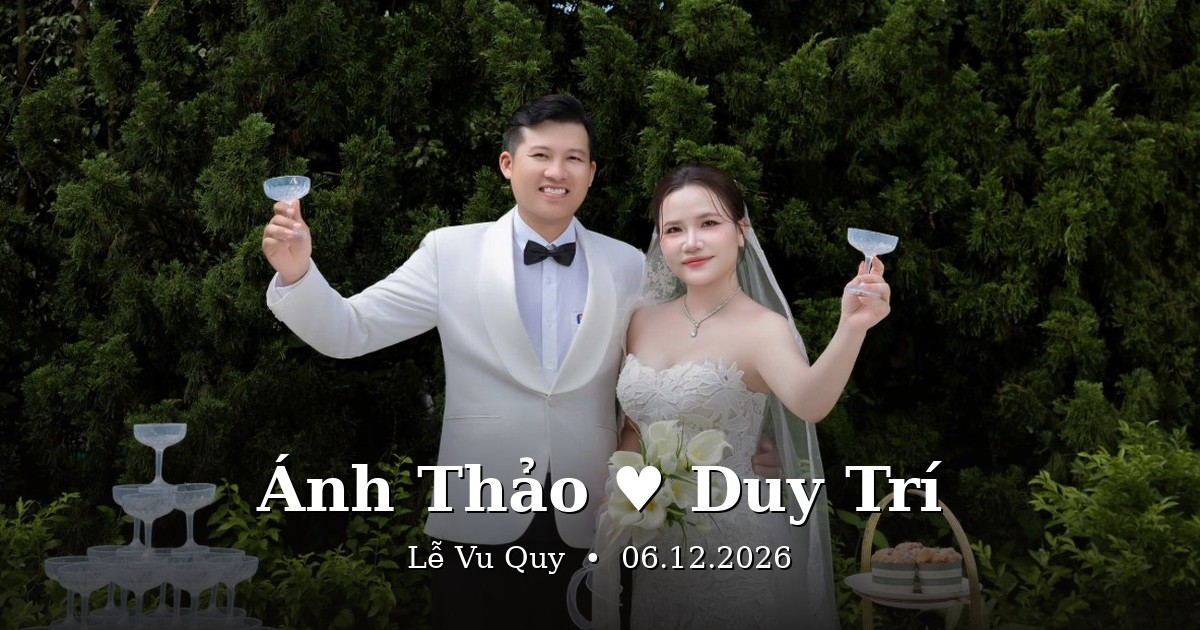
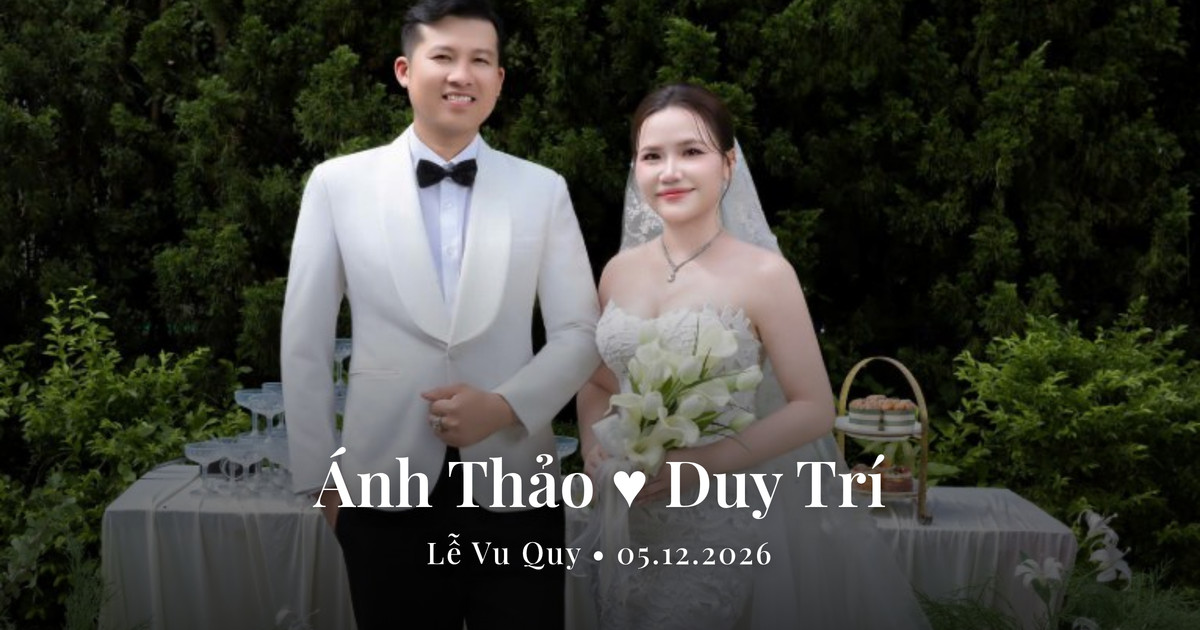
Anh Thao & Duy Tri: dung lai og-cover.jpg, ngay bia 06.12 -> 05.12.2026 (them og-cover.html + fonts de dung lai sau)

diff --git a/products/Invitation/Wedding/khach_anh-thao-duy-tri/og-cover.html b/products/Invitation/Wedding/khach_anh-thao-duy-tri/og-cover.html
@@ -1,0 +1,39 @@
+<!DOCTYPE html>
+<html lang="vi">
+<head>
+<meta charset="UTF-8">
+<meta name="robots" content="noindex, nofollow">
+<title>OG Cover — Thiệp cưới Ánh Thảo &amp; Duy Trí</title>
+<!--
+  Trang dựng ảnh chia sẻ 1200×630 (og-cover.jpg) — không phải trang cho khách xem.
+  Chụp lại khi đổi nội dung:
+    node scripts/build-og-cover.js --page products/Invitation/Wedding/khach_anh-thao-duy-tri/og-cover.html --out products/Invitation/Wedding/khach_anh-thao-duy-tri/og-cover.jpg
+  Thiết kế: ảnh couple_2.jpg phủ kín, chữ trắng trên nền tối dần ở dưới.
+  16/11/2026: dựng lại file này (bản gốc không còn lưu) để sửa ngày bìa 06.12 → 05.12.2026.
+-->
+<style>
+@font-face{font-family:'Playfair Display';font-style:normal;font-weight:500;font-display:swap;src:url('fonts/PlayfairDisplay-500-vietnamese.woff2') format('woff2');unicode-range:U+0102-0103, U+0110-0111, U+0128-0129, U+0168-0169, U+01A0-01A1, U+01AF-01B0, U+0300-0301, U+0303-0304, U+0308-0309, U+0323, U+0329, U+1EA0-1EF9, U+20AB;}
+@font-face{font-family:'Playfair Display';font-style:normal;font-weight:500;font-display:swap;src:url('fonts/PlayfairDisplay-500-latin.woff2') format('woff2');unicode-range:U+0000-00FF, U+0131, U+0152-0153, U+02BB-02BC, U+02C6, U+02DA, U+02DC, U+0304, U+0308, U+0329, U+2000-206F, U+20AC, U+2122, U+2191, U+2193, U+2212, U+2215, U+FEFF, U+FFFD;}
+@font-face{font-family:'Playfair Display';font-style:normal;font-weight:600;font-display:swap;src:url('fonts/PlayfairDisplay-600-vietnamese.woff2') format('woff2');unicode-range:U+0102-0103, U+0110-0111, U+0128-0129, U+0168-0169, U+01A0-01A1, U+01AF-01B0, U+0300-0301, U+0303-0304, U+0308-0309, U+0323, U+0329, U+1EA0-1EF9, U+20AB;}
+@font-face{font-family:'Playfair Display';font-style:normal;font-weight:600;font-display:swap;src:url('fonts/PlayfairDisplay-600-latin.woff2') format('woff2');unicode-range:U+0000-00FF, U+0131, U+0152-0153, U+02BB-02BC, U+02C6, U+02DA, U+02DC, U+0304, U+0308, U+0329, U+2000-206F, U+20AC, U+2122, U+2191, U+2193, U+2212, U+2215, U+FEFF, U+FFFD;}
+</style>
+<style>
+  *{margin:0;padding:0;box-sizing:border-box}
+  html,body{width:1200px;height:630px;overflow:hidden}
+  body{position:relative;font-family:'Playfair Display',serif;color:#fff}
+  .photo{position:absolute;inset:0}
+  .photo img{width:100%;height:100%;object-fit:cover;object-position:center;display:block}
+  .photo::after{content:'';position:absolute;inset:0;background:linear-gradient(180deg,rgba(0,0,0,0) 38%,rgba(0,0,0,.30) 58%,rgba(0,0,0,.72) 100%)}
+  .text{position:absolute;left:0;right:0;bottom:58px;text-align:center;z-index:2}
+  .names{font-weight:600;font-size:64px;line-height:1.1;text-shadow:0 2px 18px rgba(0,0,0,.45)}
+  .date{font-weight:500;font-size:30px;letter-spacing:2px;margin-top:16px;text-shadow:0 2px 14px rgba(0,0,0,.45)}
+</style>
+</head>
+<body>
+  <div class="photo"><img src="couple_2.jpg" alt="Ánh Thảo &amp; Duy Trí"></div>
+  <div class="text">
+    <div class="names">Ánh Thảo ♥ Duy Trí</div>
+    <div class="date">Lễ Vu Quy • 05.12.2026</div>
+  </div>
+</body>
+</html>
